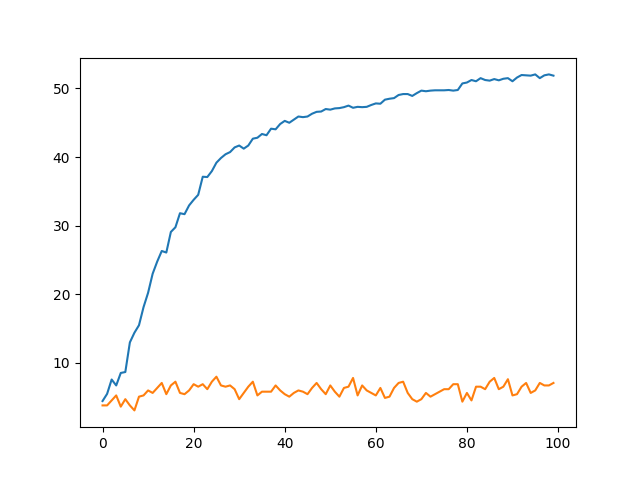
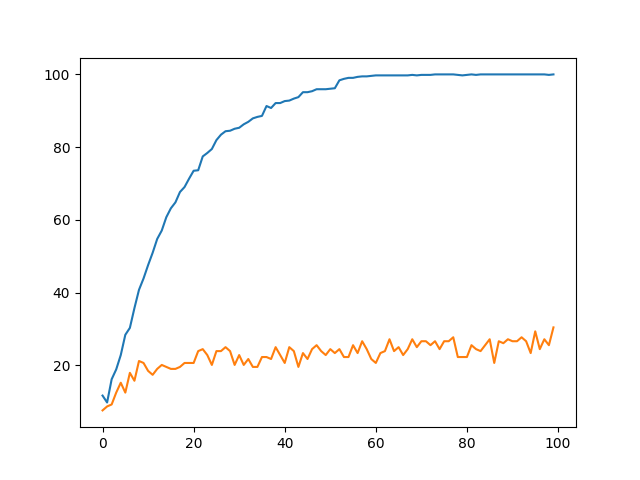
stpsdの次元拡張

diff --git a/model.py b/model.py
@@ -54,18 +54,18 @@ class Resblock(nn.Module):
                       kernel_size=3, padding=1),
             nn.BatchNorm1d(in_channels),
             nn.ReLU(),
-            nn.Dropout(0.5),
+            nn.Dropout(0.25),
             nn.Conv1d(in_channels=in_channels, out_channels=in_channels,
                       kernel_size=3, padding=1),
             nn.BatchNorm1d(in_channels),
-            # nn.Dropout(0.5),
-
         )
+        self.dropout2 = nn.Dropout(0.5)
 
     def forward(self, x):
         out = self.layer1(x)
         out = torch.add(out, x)
         out = nn.ReLU()(out)
+        # out = self.dropout2(out)
         return out
 
 
@@ -74,7 +74,7 @@ class Inception(nn.Module):
         super(Inception, self).__init__()
         self.layer1 = nn.Sequential(
             nn.Conv1d(in_channels=in_channels, out_channels=out_channels,
-                      kernel_size=3, padding=1),
+                      kernel_size=7, padding=3),
             nn.ReLU(),
             nn.MaxPool1d(kernel_size=3, stride=2, padding=1),
             nn.BatchNorm1d(out_channels),
@@ -93,19 +93,19 @@ class Inception(nn.Module):
         out = self.layer1(x)
         out = self.layer2(out)
         out = self.layer3(out)
-        out = self.layer4(out)
-        out = self.layer5(out)
-        out = self.layer6(out)
-        out = self.layer7(out)
-        out = self.layer8(out)
-        out = self.layer9(out)
+        # out = self.layer4(out)
+        # out = self.layer5(out)
+        # out = self.layer6(out)
+        # out = self.layer7(out)
+        # out = self.layer8(out)
+        # out = self.layer9(out)
 
         return out
 
 
 class InceptionLSTM(nn.Module):
 
-    def __init__(self, in_channels=200, batch=128, input_size=24, out_channels=3):
+    def __init__(self, in_channels=199, batch=128, input_size=24, out_channels=3):
         super(InceptionLSTM, self).__init__()
         self.inception = Inception(in_channels, out_channels=out_channels)
         # self.lstm1 = nn.LSTM(input_size, 46)
@@ -114,12 +114,12 @@ class InceptionLSTM(nn.Module):
         self.last_conv = nn.Conv1d(out_channels, 46, kernel_size=3, padding=1)
         self.batch = batch
         self.out_channels = out_channels
-        self.linear = nn.Linear(9600, 200*47)
+        # self.linear = nn.Linear(9600, 199*9600)
 
     def forward(self, x):
-        x = self.linear(x)
+        # x = self.linear(x)
         # x = nn.Dropout(0.5)(x)
-        x = x.reshape(-1, 200, 47)
+        # x = x.reshape(-1, 200, 47)
         out = self.inception(x)
         # out = out.permute(1, 0, 2)
         # out, _ = self.lstm1(out)

diff --git a/spectrogram.py b/spectrogram.py
@@ -1,0 +1,55 @@
+from pydub import AudioSegment
+import numpy as np
+# from scipy.signal.signaltools import wiener
+from scipy.fft import fft,  ifft
+from scipy import signal
+import torch
+
+
+def audio_to_spectrogram(tensor_sound, fs=4800, time_window=0.02, time_overlap=0.01, lpass: 'bool, low passの処理をするかどうか' = False, lpass_thresh=10000):
+    '''
+    stPSDを返す。返り値はdim=2のndarray. axis=0方向は各フレーム. axis=1方向はそのフレームでのstPSD.
+    '''
+
+    tensor_sound = tensor_sound.cpu()
+    ndarray_sound = tensor_sound.numpy()
+    N = len(ndarray_sound)
+    dt = 1/fs
+
+    # 窓関数に関する変数
+    lw = int(time_window//dt)  # length of window, 窓巻数の配列の要素数
+    lo = int(time_overlap//dt)  # length of overlapm overlapの要素数
+    w = signal.hann(lw)  # hanning window
+
+    # N, lw, loからnf (フレーム数、xをいくつに区切って窓関数を適用するか)とlp(パディングの要素数)を求める。
+    nf = (N-lo) // (lw-lo)
+
+    stpwds = []  # stpwdsに各フレームのstPSDのndarrayを格納
+    df = fs / lw  # 各フレームごとのfftにおける周波数分解能
+    f = np.linspace(1, lw//2, lw//2)*df - df  # 各フレームごとの周波数
+    # nf個のフレームに分けて、hanning windowをかけて、FFT
+    for i in range(nf):
+        frame = np.zeros_like(ndarray_sound)
+        s = (lw - lo) * i  # フレームの開始のindex, sよりindexが小さいところに要素がs個ある
+
+        frame[s:s+lw] = w * ndarray_sound[s: s+lw]  # hanning windowを掛ける
+        frame_f = fft(frame)
+        # 正規化及び有効な範囲(fs/2以下の部分)のみを取り出す
+        frame_f_regularized = 2/lw * frame_f[:N//2]
+        frame_f_regularized[0] = frame_f_regularized[0]/2  # 正規化
+        stpwd = np.abs(frame_f_regularized)**2 / \
+            df  # 周波数成分の絶対値の2乗を周波数分解能で割る
+        # f = np.linspace(1, lw//2, lw//2)*df - df
+        # plt.plot(f, stpwd)
+        # concatenateで2次元配列にしたいのでnewaxisを加える,
+        stpwds.append(stpwd[np.newaxis, :])
+
+    res = np.concatenate(stpwds, axis=0)
+
+    # low pass処理
+    if lpass:
+        # axis1方向の、thresh_idx未満にある要素はlpass_thresh以下の周波数に対応する
+        thresh_idx = np.where(f > lpass_thresh)[0][0]
+        res = res[:, :thresh_idx]
+
+    return torch.Tensor(res).cuda()

diff --git a/word_processor3.py b/word_processor3.py
@@ -52,14 +52,14 @@ def plot_hiragana_audio(hiragana):
     plt.show()
 
 
-def make_dataset():
+def make_dataset(spectro=False):
     # 入力:表示したいひらがな(str)
     # 出力:10個の波形
     hiraganas = list("あいうえおかきくけこさしすせそたちつてとなにぬねのはひふへほまみむめもやゆよらりるれろわをん")
     X = None
     labels = []
     for label, hiragana in enumerate(hiraganas):
-        for i in range(4):
+        for i in range(2):
             file_name = "easily_splittable_hiragana_data/" + \
                 hiragana + str(i+1)+".m4a"
             sound_arr, frame_rate = get_audio_numpy(file_name)
@@ -72,24 +72,28 @@ def make_dataset():
                     X = sound_arrs
                 else:
                     X = np.concatenate([X, sound_arrs])
-        for i in range(2):
-            file_name = "easily_splittable_hiragana_data/" + \
-                hiragana + "1"+str(i+1)+".m4a"
-            sound_arr, frame_rate = get_audio_numpy(file_name)
-            if frame_rate == 4410:
-                print(hiragana, i)
-            else:
-                sound_arrs = audio_split(sound_arr, frame_rate)
-                labels += [label]*sound_arrs.shape[0]
-                if X is None:
-                    X = sound_arrs
-                else:
-                    X = np.concatenate([X, sound_arrs])
+        # for i in range(2):
+        #     file_name = "easily_splittable_hiragana_data/" + \
+        #         hiragana + "1"+str(i+1)+".m4a"
+        #     sound_arr, frame_rate = get_audio_numpy(file_name)
+        #     if frame_rate == 4410:
+        #         print(hiragana, i)
+        #     else:
+        #         sound_arrs = audio_split(sound_arr, frame_rate)
+        #         labels += [label]*sound_arrs.shape[0]
+        #         if X is None:
+        #             X = sound_arrs
+        #         else:
+        #             X = np.concatenate([X, sound_arrs])
 
     return X, labels, frame_rate
 
 
 def preprocess(X_train, X_test, y_train, y_test):
+    # 高域協調
+    # X_train[:, 1:] = X_train[:, 1:] - 0.97 * X_train[:, :-1]
+    # X_test[:, 1:] = X_test[:, 1:] - 0.97 * X_test[:, :-1]
+
     X_train = (X_train - np.mean(X_train, axis=1).reshape(-1, 1)) / \
         np.std(X_train, axis=1).reshape(-1, 1)
     X_test = (X_test - np.mean(X_test, axis=1).reshape(-1, 1)) / \

diff --git a/train.py b/train.py
@@ -13,18 +13,19 @@ from sklearn.model_selection import train_test_split
 import matplotlib.pyplot as plt
 import torchvision
 from word_processor3 import make_dataset, preprocess
+from spectrogram import audio_to_spectrogram
 
 # GPU,CPUの指定
 device = torch.device("cuda:0" if torch.cuda.is_available() else "cpu")
 
 # batch数
-batch = 32
+batch = 8
 
 # epoch数
 epochs = 100
 
 # モデル
-model = InceptionLSTM(batch=batch, out_channels=128).to(device)
+model = InceptionLSTM(batch=batch, out_channels=64).to(device)
 
 # 最適化アルゴリズム
 optimizer = optim.Adam(params=model.parameters(), lr=0.0005)
@@ -63,7 +64,7 @@ y_test = y_test.to(device)
 def train(epoch):
     model.train()  # modelを訓練可能に(accracyを出すところで勾配を切るため)
     train_data_loader = audio_data_loader(
-        X_train, y_train, batch, shuffle=True, stpsd=False, aug_noise=False, aug_shift=False)  # data_loaderを定義
+        X_train, y_train, batch, shuffle=True, spectro=True, aug_noise=False, aug_shift=False)  # data_loaderを定義
 
     # データローダーから1ミニバッチずつ取り出して計算する
     for data, target in train_data_loader:
@@ -103,7 +104,8 @@ def test_accuracy():
     model.eval()  # ネットワークを推論モードに切り替える
     correct = 0
 
-    output = model(X_test)  # 入力dataをinputし、出力を求める
+    spec_X_test = np.frompyfunc(audio_to_spectrogram, 1, 1)(X_test)
+    output = model(spec_X_test)  # 入力dataをinputし、出力を求める
 
     # 推論する
     pred = output.data.max(1, keepdim=True)[1]  # 出力ラベルを求める

diff --git a/data_loader.py b/data_loader.py
@@ -2,13 +2,14 @@ from torch.utils.data import DataLoader
 import numpy as np
 from data_augmentation import data_augmentation
 from audio_preprocess import audio_to_psd
+from spectrogram import audio_to_spectrogram
 
 
 class Dataset:
-    def __init__(self, X, y, stpsd, aug_noise, aug_shift):
+    def __init__(self, X, y, spectro, aug_noise, aug_shift):
         self.X = X
         self.y = y
-        self.stpsd = stpsd
+        self.spectro = spectro
         self.aug_noise = aug_noise
         self.aug_shift = aug_shift
 
@@ -20,13 +21,13 @@ class Dataset:
         x = self.X[index]
         y = self.y[index]
         x = data_augmentation(x, self.aug_noise, self.aug_shift)
-        if self.stpsd:
-            x = audio_to_psd(x, 4800, T=None, time_overlap=0.0)
+        if self.spectro:
+            x = audio_to_spectrogram(x, 4800)
         return x, y
 
 
-def audio_data_loader(X, y, batch_size, shuffle=True, stpsd=False, aug_noise=False, aug_shift=False):
-    dataset = Dataset(X, y, stpsd, aug_noise, aug_shift)
+def audio_data_loader(X, y, batch_size, shuffle=True, spectro=False, aug_noise=False, aug_shift=False):
+    dataset = Dataset(X, y, spectro, aug_noise, aug_shift)
     dataloader = DataLoader(dataset, batch_size=batch_size,
                             shuffle=shuffle, drop_last=True)
     return dataloader

diff --git a/data_augmentation.py b/data_augmentation.py
@@ -3,15 +3,15 @@ import torch
 import random
 
 
-def add_white_noise(x, rate=0.05):
+def add_white_noise(x, rate=0.005):
     return x + rate * torch.randn(x.shape[0]).cuda()
 
 
 def shift_sound(x):
     result = torch.zeros_like(x)
-    start = random.randint(100, 200)
-    end = random.randint(9300, 9400)
-    start2 = random.randint(0, 50)
+    start = random.randint(50, 100)
+    end = random.randint(9350, 9400)
+    start2 = random.randint(0, 25)
     result[start2:start2+end-start] = x[start:end]
     return result
 
